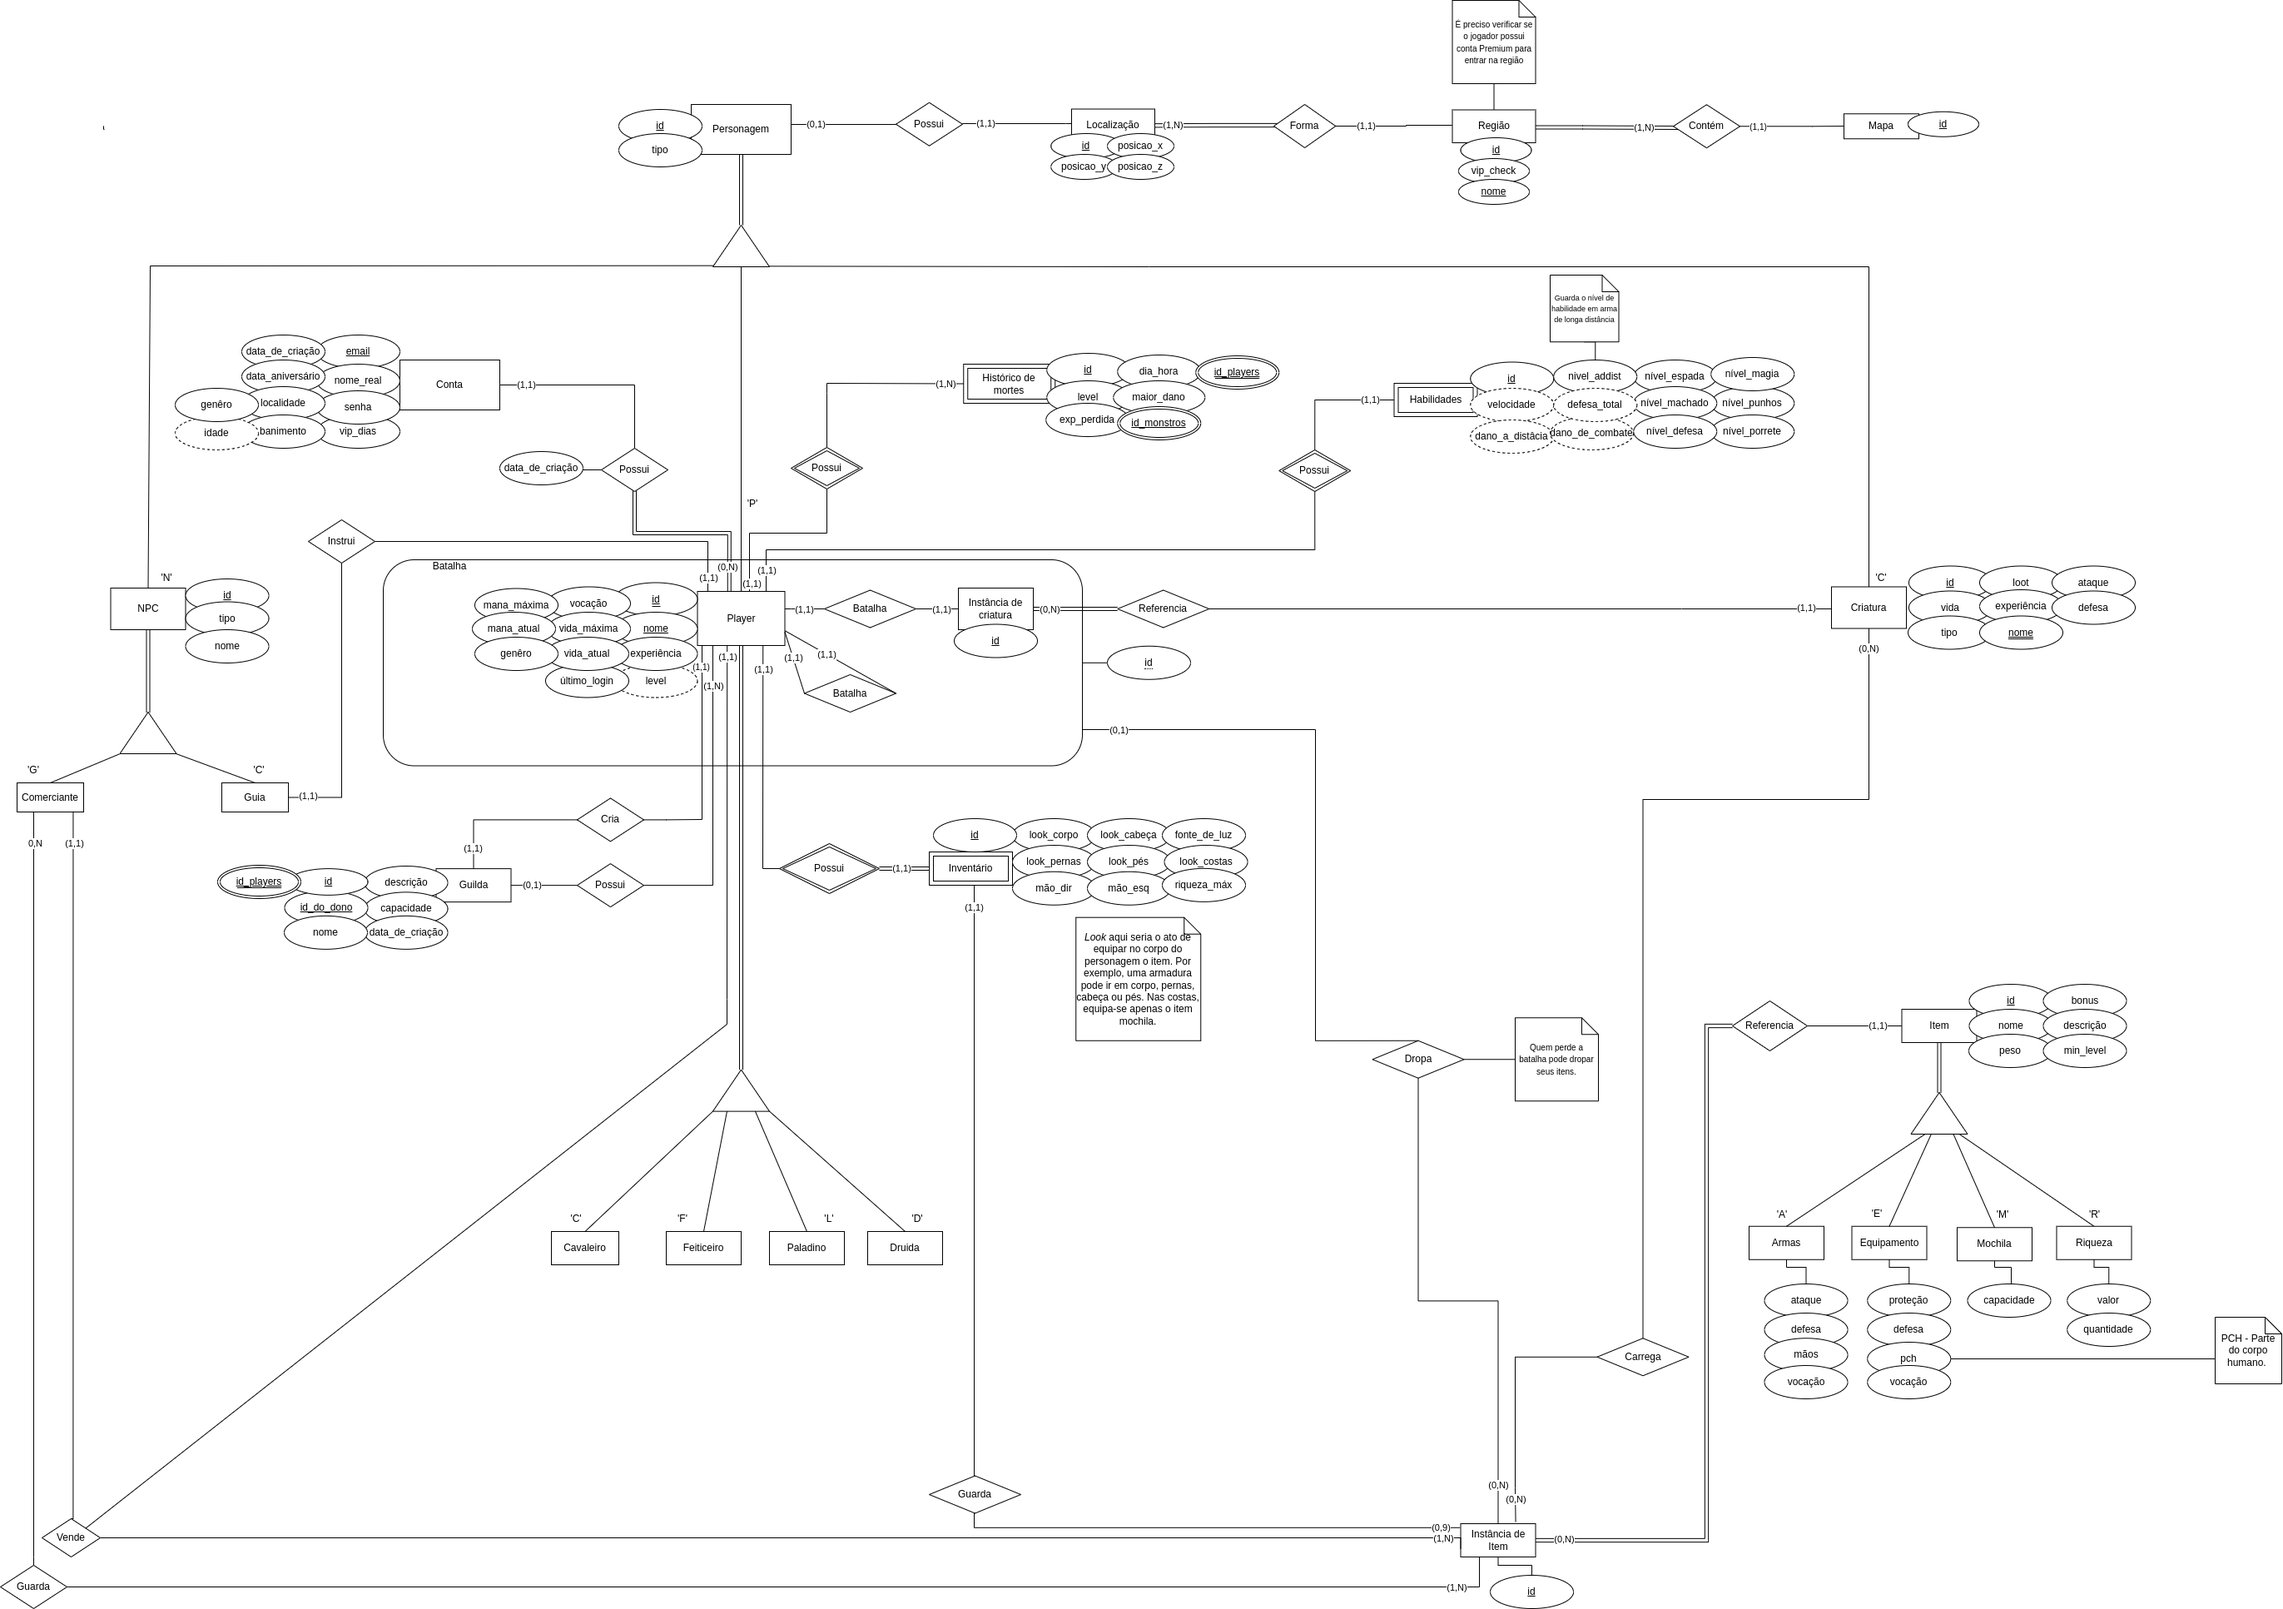
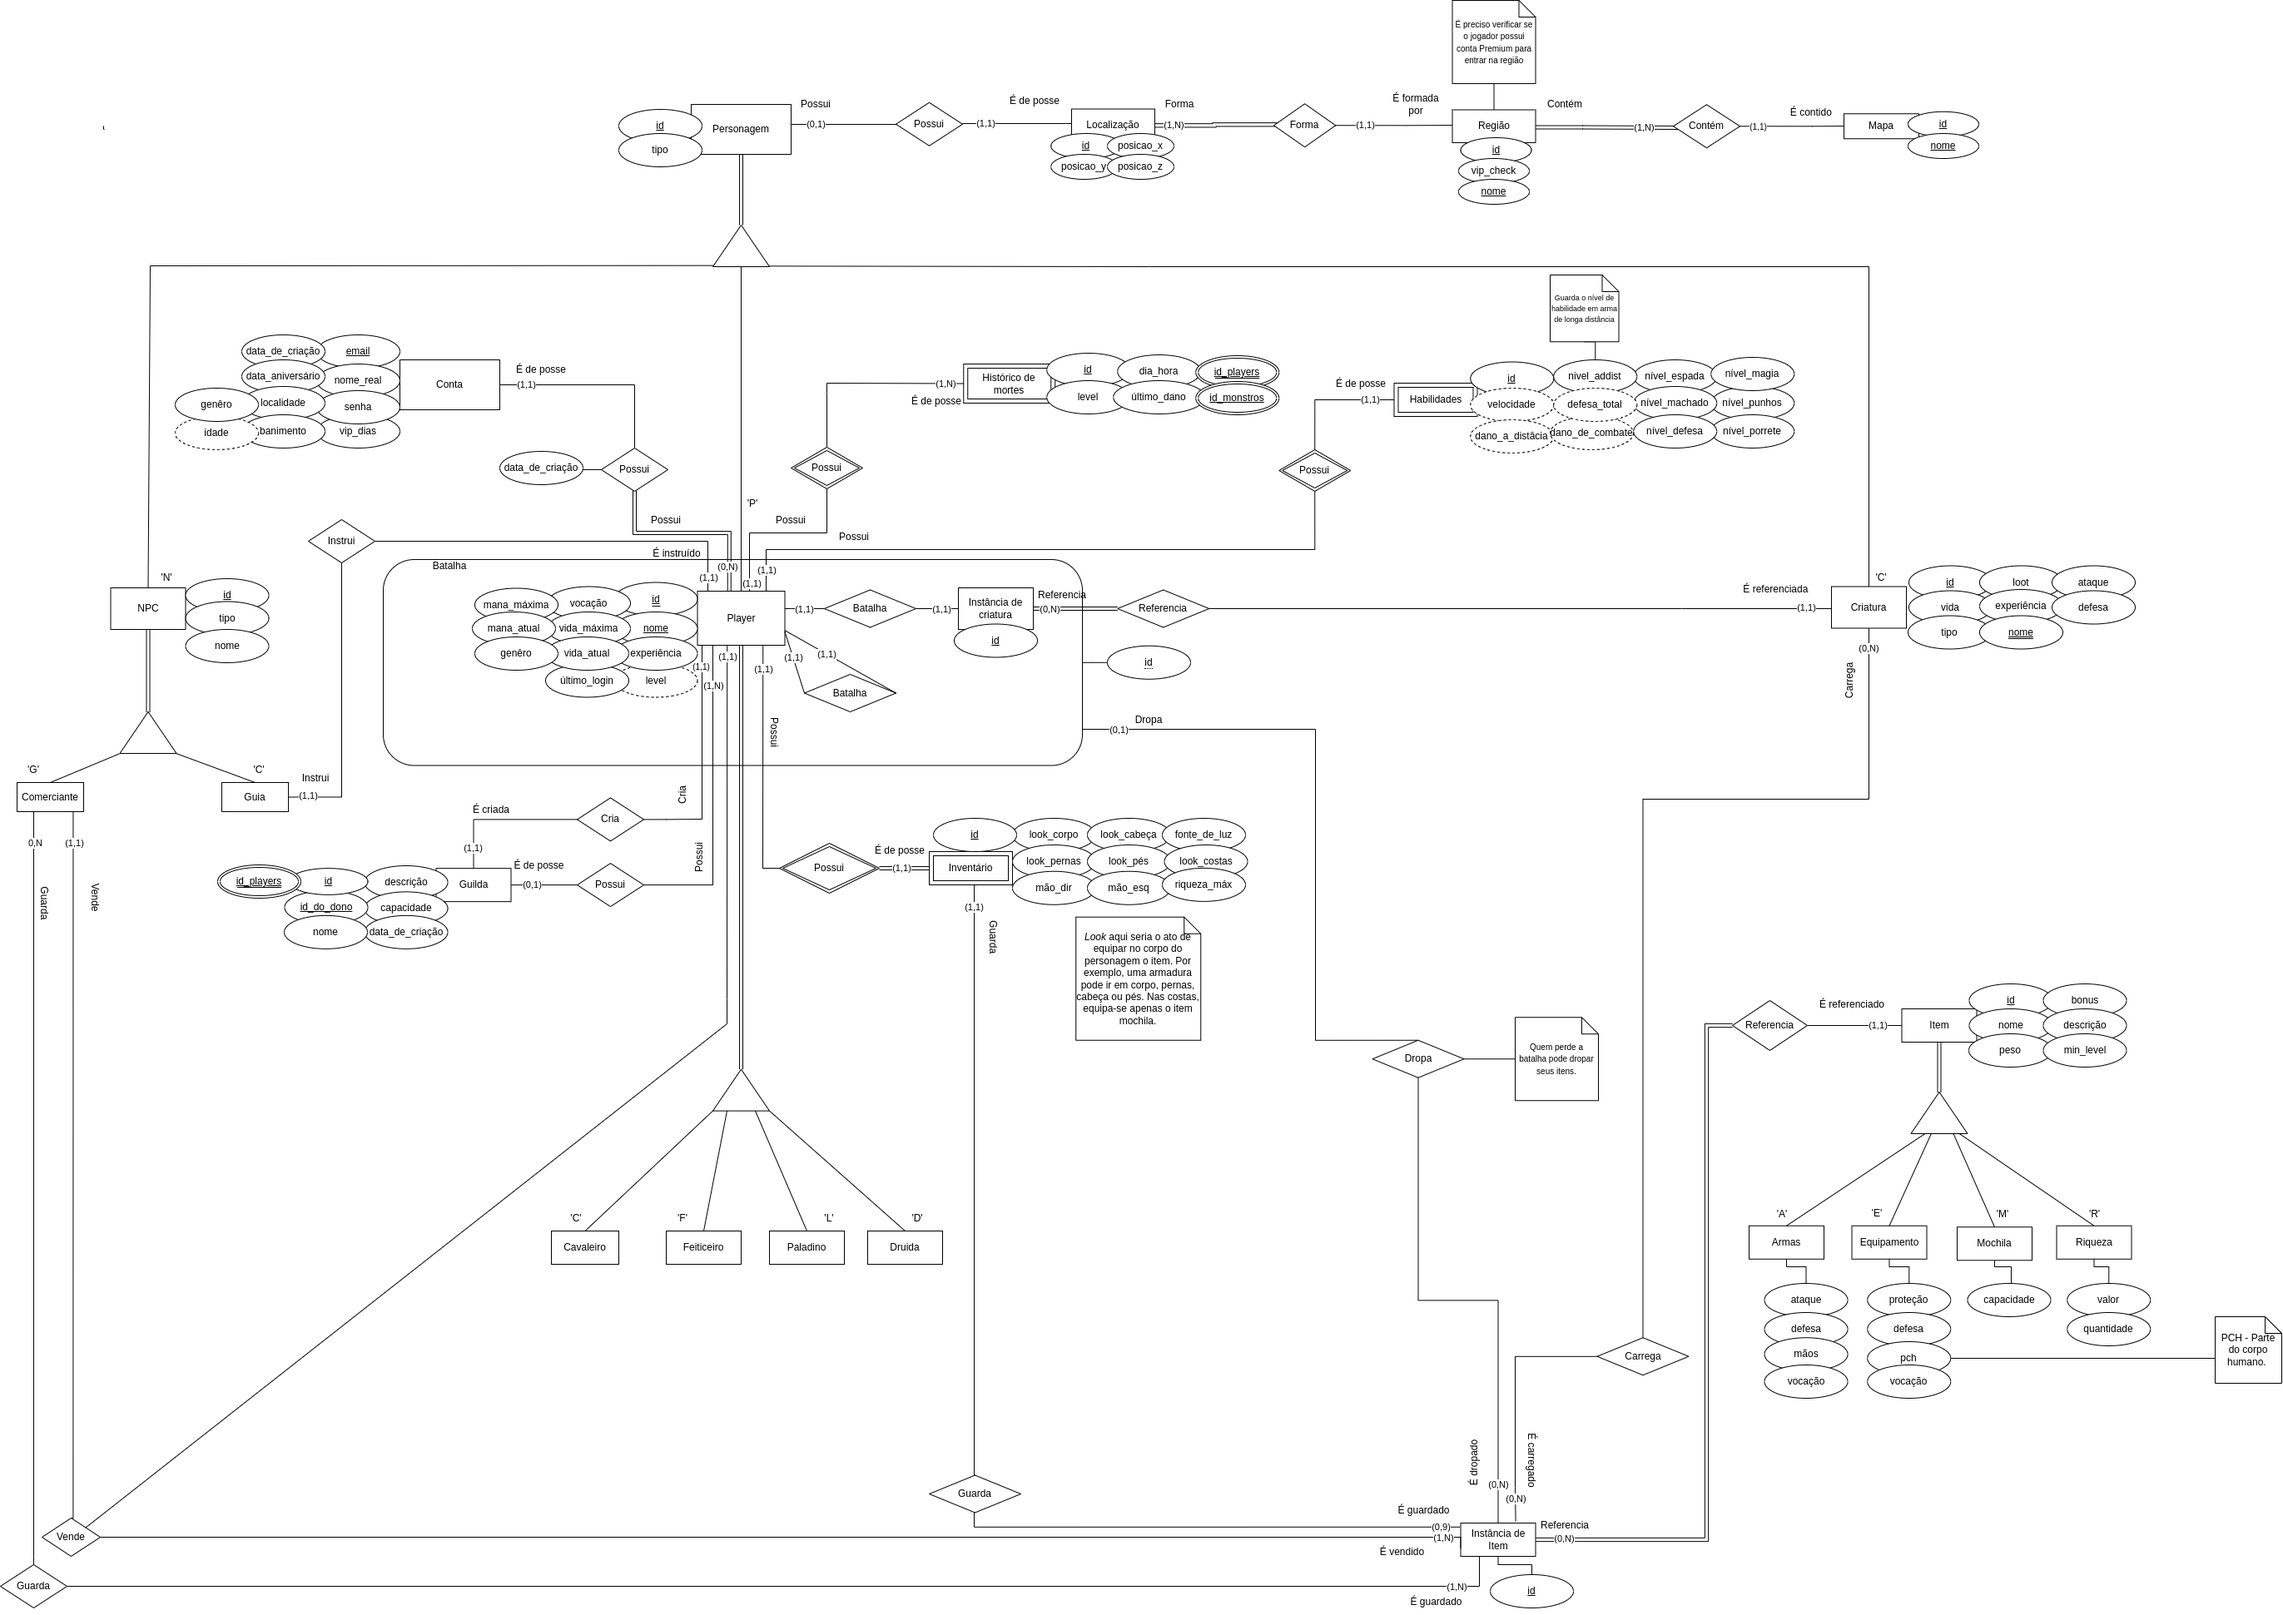
Correções requisitadas

diff --git a/docs/MREL/MREL.md b/docs/MREL/MREL.md
@@ -4,13 +4,13 @@
 | ---------- | ------ | -------------------- | ----------------------------------------- |
 | 03/07/2022 | 0.1    | Criação do documento | [João Durso](https://github.com/jvsdurso),  [Tomás Veloso](https://github.com/tomasvelos0), [Laís Ramos](https://github.com/laisramos123) |
 | 04/07/2022 | 0.2    | Adição do MREL v1.0  | [João Durso](https://github.com/jvsdurso),  [Tomás Veloso](https://github.com/tomasvelos0), [Laís Ramos](https://github.com/laisramos123) |
-| 31/07/2022 | 0.3    | Adição dos papéis e correção de erros no MREL v3.0  | [João Durso](https://github.com/jvsdurso), [Laís Ramos](https://github.com/laisramos123) |
+| 31/07/2022 | 0.3    | Correção de erros | [João Durso](https://github.com/jvsdurso), [Laís Ramos](https://github.com/laisramos123) |
  
 ## Modelo Relacional
  
 O MREL (Modelo Relacional) é utilizado para apoiar a implementação das aplicações, apresentando um projeto lógico de como as entidades e relacionamentos serão mapeadas no SGBD, porém é um modelo lógico não atrelado a algum SGBD específico.
  
-![MREL v3.0](../assets/images/MREL/MRELv3.png)
+![MREL v2.0](../assets/images/MREL/MRELv2.png)
  
 ## Versões Anteriores
  
@@ -25,17 +25,3 @@ Como o Modelo Relacional foi feito no [Google Drive](https://drive.google.com/fi
  
 **Autor(es):**
 [João Durso](https://github.com/jvsdurso)
-</details>
-<details>
-<summary>Clique para apresentar a versão 2.0 do MREL</summary>
- 
-### MREL v2.0
-Ao analisar a versão 2.0, percebemos que havia alguns erros a serem corrigidos e que faltava acrescentar os diferentes papéis possíveis para o Player.
- 
- 
-![MREL v2.0](../assets/images/MREL/MREL.png)
- 
-**Autor(es):**
-[João Durso](https://github.com/jvsdurso)
-[Laís Ramos](https://github.com/laisramos123)
-</details>

diff --git a/docs/MER/MER.md b/docs/MER/MER.md
@@ -5,7 +5,8 @@
 | ---------- | ------ | -------------------- | ----------------------------------------- |
 | 03/07/2022 | 0.1    | Criação do documento | [João Durso](https://github.com/jvsdurso),  [Tomás Veloso](https://github.com/tomasvelos0), [Laís Ramos](https://github.com/laisramos123) |
 | 04/07/2022 | 0.2    | Adição do MER v1.0   | [João Durso](https://github.com/jvsdurso),  [Tomás Veloso](https://github.com/tomasvelos0), [Laís Ramos](https://github.com/laisramos123)|
-| 31/07/2022 | 0.3    | Correção de erros através do MER v3.0   | [João Durso](https://github.com/jvsdurso), [Laís Ramos](https://github.com/laisramos123)|
+| 31/07/2022 | 0.3    | Correção de erros gramaticais e aperfeiçoamento da disposição dos elementos do Diagrama  | [João Durso](https://github.com/jvsdurso), [Laís Ramos](https://github.com/laisramos123)|
+| 31/07/2022 | 0.4    |Adição das relações |  [Laís Ramos](https://github.com/laisramos123)|
  
 ## Modelo Entidade-Relacionamento
  
@@ -35,10 +36,10 @@ Como o Diagrama Entidade-Relacionamento foi feito no [Google Drive](https://driv
 <summary>Clique para apresentar a versão 2.0 do DER</summary>
  
 ### DER v2.0
-Analisando o DER v2.0, foram identificados erros gramaticais e a falta de alguns atributos. Por isso a necessidade da versão v3.0.
+A versão do DER v2.0 foi construída no intuito de corrigir erros gramaticais do diagrama e modificar disposição dos elementos para facilitar a leitura do diagrama.
  
  
-![DER v2.0](../assets/images/MER/DER.png)
+![DER v2.0](../assets/images/MER/DERv3.png)
  
 **Autor(es):** [João Durso](https://github.com/jvsdurso) 
 [Lais Ramos](https://github.com/laisramos123) <br><br>
